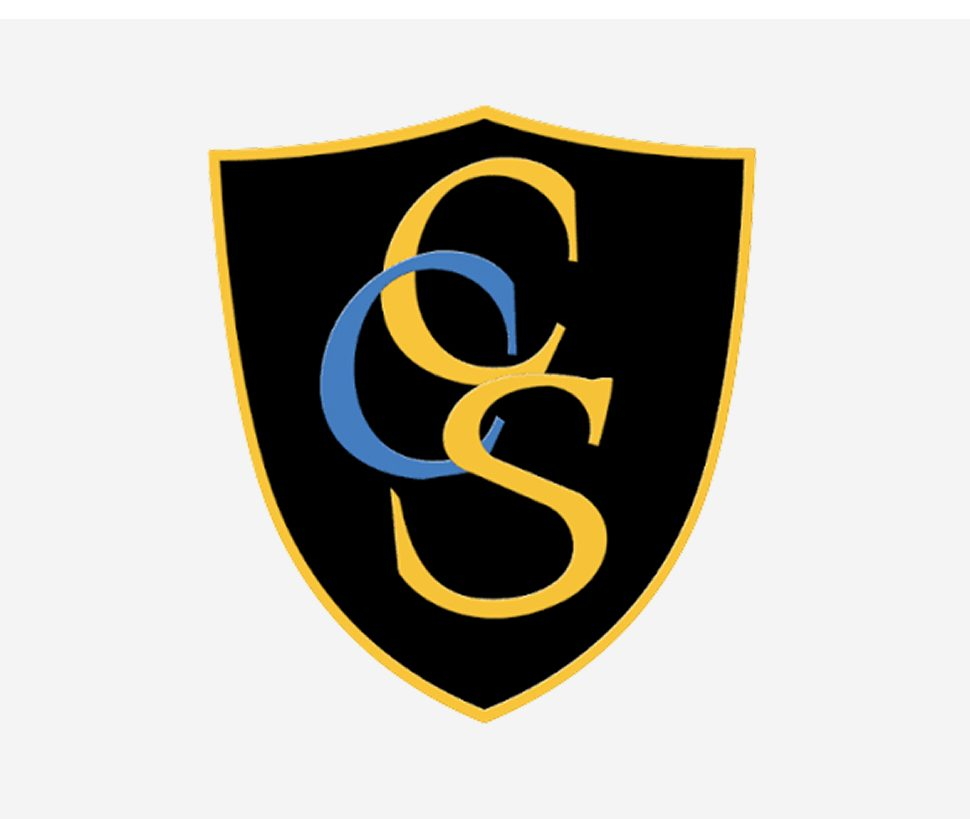
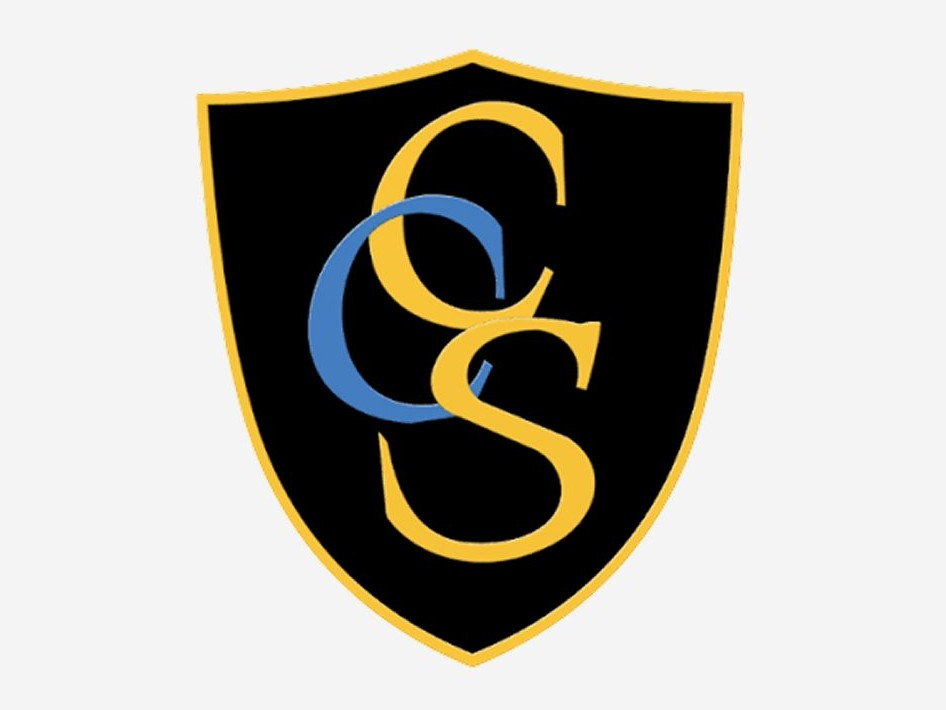
Tighten work card image padding; re-crop Coping With School thumbnail (#58)
* Fix case study images cutting off; add clean ADHD UK persona card

Removed fixed aspect-ratio + object-fit:cover cropping from .cs-full-image
and .cs-image-block across all four case studies so image height adjusts
to fit each image naturally instead of cropping (fixes City of London
Corporation "Where It Stands" and ADHD UK "Competitive Audit" cutoff).
Also wrapped .cs-full-image in .container-page so it aligns with the
rest of the page content instead of bleeding full-width.

Replaced ADHD UK's placeholder-image user persona with a clean persona
card: circular photo, name, quote, and goals list for Roman.

* Rework TutorTrust solution/testing/final sections; small copy tweaks

- Punctuation fixes in the priority table and trade-off paragraph
  (em dashes replaced with a colon/comma per requested wording).
- The Solution: replaced the two static phone screenshots with three
  alternating video/text rows (mp4 mockups, left/right/left), each with
  a green eyebrow, a 32px title, and a bullet list of feature benefits.
- Testing The Hypothesis: reworked the two before/after comparisons into
  alternating text+bullets / before-after-image rows matching the
  supplied reference layout.
- Where It Stands: replaced the single hero image with a 5x4 grid of
  20 horizontal final-prototype screens.

* Change em dash to comma in TutorTrust reflection paragraph

* Make TutorTrust solution video/text columns even, remove video cropping
[…]

Changed region(s): [[0.1839, 0.062, 0.797, 0.9606]]

diff --git a/index.html b/index.html
@@ -164,7 +164,7 @@
     position: relative; aspect-ratio: 4 / 3; background: var(--bg);
     overflow: hidden; border-radius: 10px; display: flex; align-items: center; justify-content: center;
   }
-  .work-card-media .device-screen { width: 100%; height: 100%; min-height: 0; display: flex; align-items: center; justify-content: center; padding: 24px; }
+  .work-card-media .device-screen { width: 100%; height: 100%; min-height: 0; display: flex; align-items: center; justify-content: center; padding: 8px; }
   .work-card-media .device-img { width: 100%; height: 100%; object-fit: contain; }
   .work-card-media .device-screen:hover .device-img { transform: none; }
   .work-card-body { padding-top: 20px; display: flex; flex-direction: column; flex: 1; }
